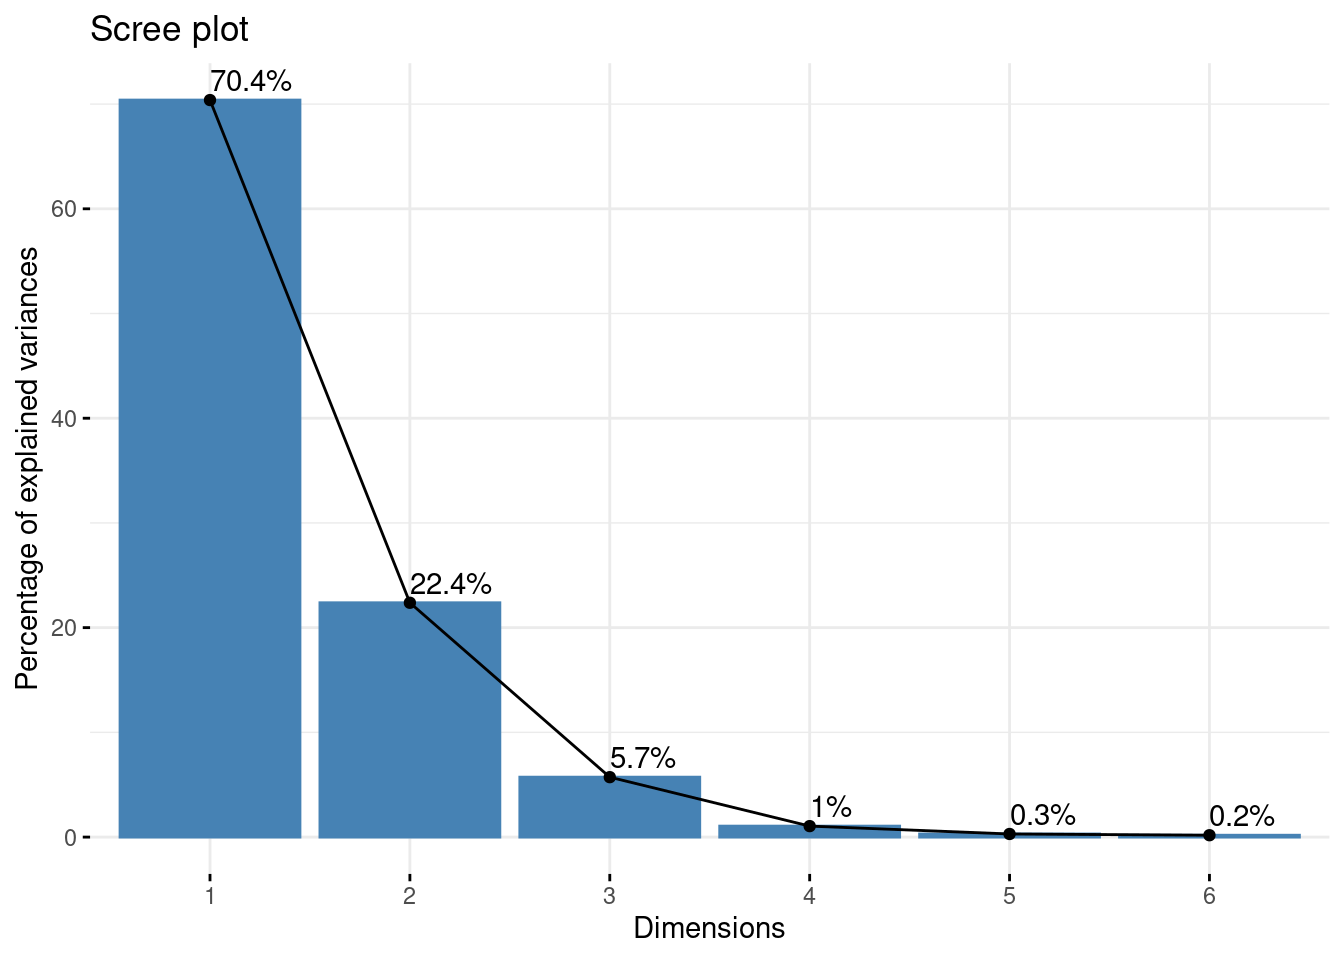
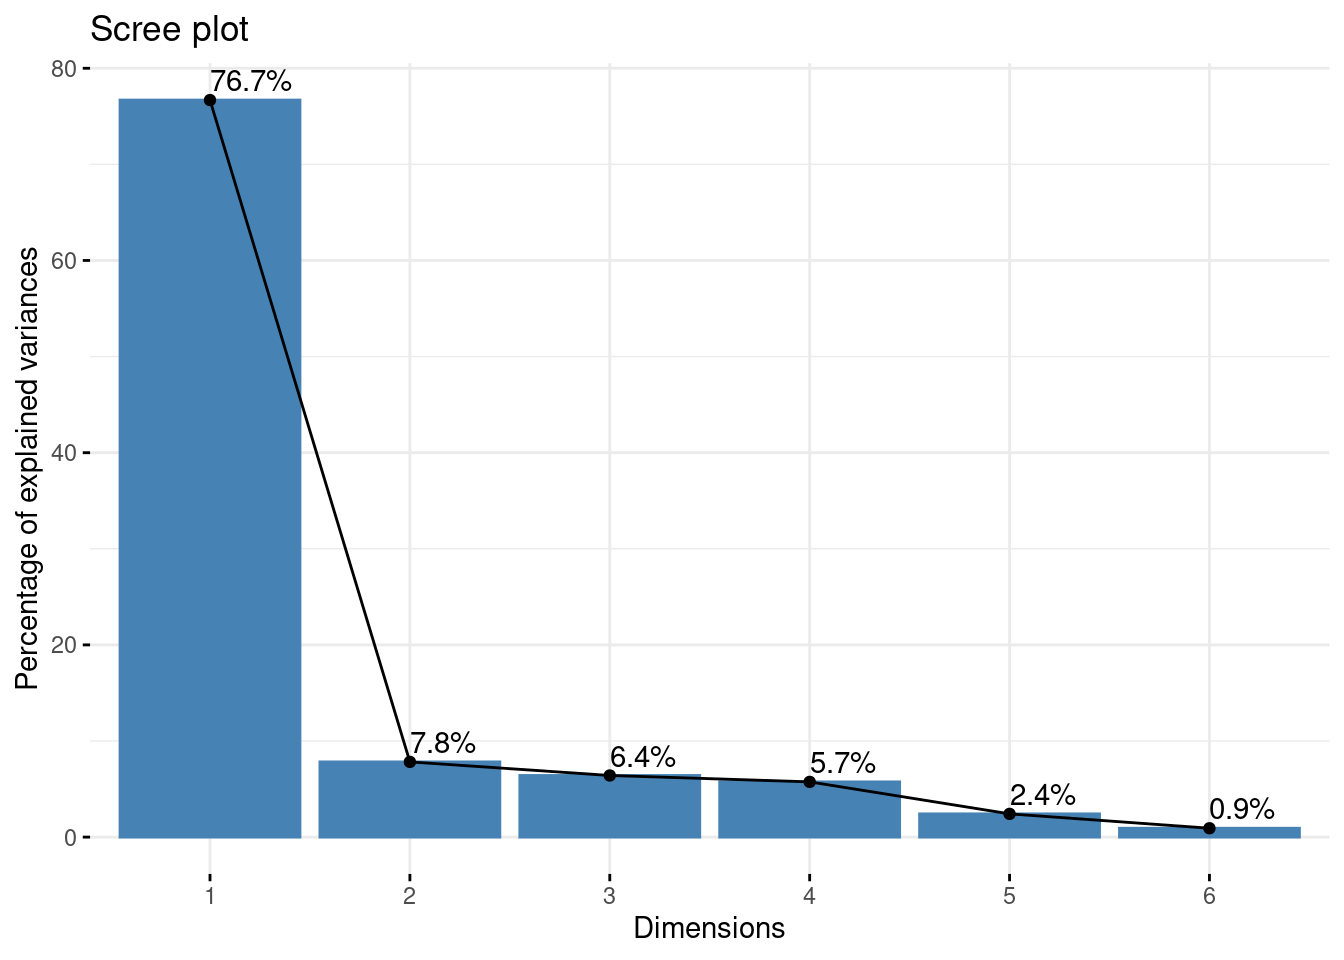
ajustes recurso600.Rmd

diff --git a/docs/recurso600.html b/docs/recurso600.html
@@ -672,8 +672,8 @@ la calidad de estos.</p>
 <p></br></p>
 <pre class="r"><code>library(ade4); library(factoextra)
 data(&quot;cafe&quot;)</code></pre>
-<div class="reactable html-widget html-fill-item-overflow-hidden html-fill-item" id="htmlwidget-9a6af9ca021dce438bf1" style="width:auto;height:auto;"></div>
-<script type="application/json" data-for="htmlwidget-9a6af9ca021dce438bf1">{"x":{"tag":{"name":"Reactable","attribs":{"data":{"Id":[1,2,3,4,5,6,7,8,9,10],"Iden":["ex_cl","cl40m","cl40cb","cl20m","cl20cb","ex_o","o40m","o40cb","o20m","o20cb"],"IAroma":[7.72,6.02,6.48,6.82,7.08,7.66,6.18,6.84,6.66,7],"Aroma":[7,5.42,5.98,6.44,6.2,7.42,5.82,6.56,7.06,6.7],"Cuerpo":[6.84,6.22,6.44,6.7,6.72,6.98,6.26,6.82,6.7,7.04],"Acidez":[5.02,4.34,4.58,4.62,4.78,5.12,4,4.3,4.64,4.6],"Amargo":[5.04,4.6,4.82,4.38,4.94,5.18,4.46,4.96,5,4.88],"Astring":[5.36,4.78,4.8,4.8,4.9,5.22,4.96,4.84,4.9,5.18]},"columns":[{"id":"Id","name":"Id","type":"numeric"},{"id":"Iden","name":"Iden","type":"character"},{"id":"IAroma","name":"IAroma","type":"numeric"},{"id":"Aroma","name":"Aroma","type":"numeric"},{"id":"Cuerpo","name":"Cuerpo","type":"numeric"},{"id":"Acidez","name":"Acidez","type":"numeric"},{"id":"Amargo","name":"Amargo","type":"numeric"},{"id":"Astring","name":"Astring","type":"numeric"}],"dataKey":"bf5cf520736dbf0eaef514e5f376b3fa"},"children":[]},"class":"reactR_markup"},"evals":[],"jsHooks":[]}</script>
+<div class="reactable html-widget html-fill-item-overflow-hidden html-fill-item" id="htmlwidget-494c04fd8fe8123c5d19" style="width:auto;height:auto;"></div>
+<script type="application/json" data-for="htmlwidget-494c04fd8fe8123c5d19">{"x":{"tag":{"name":"Reactable","attribs":{"data":{"Id":[1,2,3,4,5,6,7,8,9,10],"Iden":["ex_cl","cl40m","cl40cb","cl20m","cl20cb","ex_o","o40m","o40cb","o20m","o20cb"],"IAroma":[7.72,6.02,6.48,6.82,7.08,7.66,6.18,6.84,6.66,7],"Aroma":[7,5.42,5.98,6.44,6.2,7.42,5.82,6.56,7.06,6.7],"Cuerpo":[6.84,6.22,6.44,6.7,6.72,6.98,6.26,6.82,6.7,7.04],"Acidez":[5.02,4.34,4.58,4.62,4.78,5.12,4,4.3,4.64,4.6],"Amargo":[5.04,4.6,4.82,4.38,4.94,5.18,4.46,4.96,5,4.88],"Astring":[5.36,4.78,4.8,4.8,4.9,5.22,4.96,4.84,4.9,5.18]},"columns":[{"id":"Id","name":"Id","type":"numeric"},{"id":"Iden","name":"Iden","type":"character"},{"id":"IAroma","name":"IAroma","type":"numeric"},{"id":"Aroma","name":"Aroma","type":"numeric"},{"id":"Cuerpo","name":"Cuerpo","type":"numeric"},{"id":"Acidez","name":"Acidez","type":"numeric"},{"id":"Amargo","name":"Amargo","type":"numeric"},{"id":"Astring","name":"Astring","type":"numeric"}],"dataKey":"bf5cf520736dbf0eaef514e5f376b3fa"},"children":[]},"class":"reactR_markup"},"evals":[],"jsHooks":[]}</script>
 <p></br></p>
 <p>Calculando el ACP mediante la libreria <code>ade4</code> se
 tiene:</p>
@@ -689,43 +689,41 @@ estamos normalizando los datos originales.</p>
 <p>Los valores propios asociados a la matriz de correlaciones serán:</p>
 <p></br></p>
 <pre class="r"><code>ACP$eig</code></pre>
-<pre><code>[1] 4.22296911 1.34253540 0.34332281 0.06278951 0.01774934 0.01063383</code></pre>
+<pre><code>[1] 4.60147661 0.46937103 0.38451212 0.34461612 0.14487978 0.05514434</code></pre>
 <p></br></p>
 <p>Como vemos el primer valor propio será siempre el mayor ya que es el
 que mayor varianza logra explicar. <br></p>
 <p>Las componentes principales de los individuos son:</p>
 <p></br></p>
 <pre class="r"><code>ACP$li</code></pre>
-<pre><code>          Axis1       Axis2       Axis3        Axis4       Axis5         Axis6
-ExCl  3.2985249  0.59053730 -0.30417258  0.051239131  0.08307893  1.610162e-01
-C40M -2.0569257  2.14366713  0.36794391 -0.017723919  0.07658039  4.522901e-02
-C40C -1.8513736  0.90752688 -0.68290606  0.004278063 -0.01360567 -2.321584e-01
-C20M  0.5294378  1.64570229  0.15037997 -0.021380245  0.17658953 -2.613240e-02
-C20C  1.1488311  0.24739910 -1.24983058  0.112014829 -0.15335269  8.664286e-02
-ExOs  1.5745902 -1.78350945  0.03458431 -0.131412097  0.16467890 -9.270441e-02
-O40M -3.1230306 -0.80369310  0.74659695  0.182402080 -0.01196760  1.182975e-01
-O40C -2.6684052 -0.56653513 -0.16882998  0.059525086 -0.14189423  4.681633e-02
-O20M -0.5949198 -1.37326871 -0.14639348 -0.072958984  0.19964985  2.882415e-02
-O20C -0.5244905 -1.22493389 -0.24650122  0.017652399 -0.05328415 -3.117366e-02
-Com1  1.2830684  0.19671837  0.59476672 -0.666680362 -0.19447244  5.147559e-05
-Com2  2.9846931  0.02038922  0.90436204  0.483044019 -0.13200083 -1.047086e-01</code></pre>
+<pre><code>        Axis1       Axis2      Axis3       Axis4       Axis5       Axis6
+1  -2.9947077  1.01622318  0.6088641 -0.03785795  0.02866881  0.18511122
+2   3.2057321  0.03615753  0.7806676 -0.07003494 -0.09122485 -0.22696752
+3   1.3866259 -0.55662815  0.6612540 -0.18398706 -0.03470995 -0.06223661
+4   0.9814076  0.21905587 -1.0260987 -1.39279259  0.15092805  0.05010482
+5  -0.3457128 -0.50136938  0.4641112 -0.41096544 -0.57540901  0.13120929
+6  -3.5409698 -0.08826572  0.2660512 -0.09933568  0.28882042  0.01645509
+7   3.0213005  1.11233544 -0.1516589  0.64680223  0.28754799  0.20819208
+8   0.1375515 -0.84616260 -0.7108259  0.72170121 -0.32801652  0.36384152
+9  -0.4982973 -0.90730984 -0.1613885  0.35575388  0.75859223 -0.18371900
+10 -1.3529300  0.51596367 -0.7309759  0.47071634 -0.48519716 -0.48199090</code></pre>
 <p></br></p>
 <p>Y por último las componentes principales de las variables son:</p>
 <pre class="r"><code>ACP$co  </code></pre>
-<pre><code>              Comp1       Comp2       Comp3       Comp4        Comp5
-DA       -0.4239495  0.81522430  0.39404355 -0.01784939  0.009101505
-EA       -0.9825263  0.06905389 -0.12723505  0.06875531  0.072279373
-pH       -0.4957107 -0.77583057  0.38629570  0.05454417 -0.009568026
-AcidezT   0.9795929  0.15677029  0.05699178  0.06256249 -0.059082131
-Cafeina   0.9563901 -0.20380887  0.12671531 -0.14757932  0.072853723
-AcidosCl  0.9787056  0.07175130  0.05774534  0.17051342  0.059601018
-                Comp6
-DA       -0.002097963
-EA        0.061100244
-pH        0.008174496
-AcidezT   0.071888824
-Cafeina   0.025215445
-AcidosCl -0.032024168</code></pre>
+<pre><code>             Comp1       Comp2        Comp3       Comp4        Comp5
+IAroma  -0.9594169  0.10472444  0.006052845 -0.15371519 -0.097171463
+Aroma   -0.9144779 -0.09905878 -0.245477287  0.04789976  0.301769522
+Cuerpo  -0.8891227 -0.09880354 -0.389613549  0.00138818 -0.201486279
+Acidez  -0.8667067 -0.07067830  0.274819022 -0.39762926  0.035161005
+Amargo  -0.8151809 -0.36599671  0.289897844  0.33905502 -0.049737315
+Astring -0.7990534  0.54761303  0.113364062  0.21359800  0.008113424
+               Comp6
+IAroma   0.188267462
+Aroma    0.017298649
+Cuerpo  -0.085447344
+Acidez  -0.094621441
+Amargo   0.007324156
+Astring -0.055608952</code></pre>
 <p></br></p>
 <p>Podemos representar mediante un diagrama de barras a los valores
 propios del ACP.</p>
@@ -781,12 +779,12 @@ principales se tiene:</p>
 inercia.ACP = inertia.dudi(ACP,row.inertia=TRUE, col.inertia=TRUE)
 inercia.ACP$tot.inertia</code></pre>
 <pre><code>       inertia      cum    cum(%)
-Ax1 4.22296911 4.222969  70.38282
-Ax2 1.34253540 5.565505  92.75841
-Ax3 0.34332281 5.908827  98.48046
-Ax4 0.06278951 5.971617  99.52695
-Ax5 0.01774934 5.989366  99.82277
-Ax6 0.01063383 6.000000 100.00000</code></pre>
+Ax1 4.60147661 4.601477  76.69128
+Ax2 0.46937103 5.070848  84.51413
+Ax3 0.38451212 5.455360  90.92266
+Ax4 0.34461612 5.799976  96.66626
+Ax5 0.14487978 5.944856  99.08093
+Ax6 0.05514434 6.000000 100.00000</code></pre>
 <p></br></p>
 <p>Podemos observar que hasta la <strong>segunda componente</strong>
 (Ax2) se acumula un 84.51% de la inercia total.</p>
@@ -795,13 +793,13 @@ Ax6 0.01063383 6.000000 100.00000</code></pre>
 componente será:</p>
 <p></br></p>
 <pre class="r"><code>inercia.ACP$col.abs</code></pre>
-<pre><code>             Axis1      Axis2      Axis3      Axis4      Axis5       Axis6
-DA        4.256086 49.5026540 45.2257514  0.5074108  0.4667070  0.04139101
-EA       22.859697  0.3551817  4.7153168  7.5287948 29.4338194 35.10718993
-pH        5.818871 44.8340564 43.4647417  4.7381593  0.5157777  0.62839421
-AcidezT  22.723402  1.8306352  0.9460668  6.2336285 19.6666403 48.59962717
-Cafeina  21.659690  3.0940007  4.6768728 34.6867762 29.9034549  5.97920502
-AcidosCl 22.682254  0.3834721  0.9712505 46.3052304 20.0136006  9.64419265</code></pre>
+<pre><code>           Axis1     Axis2        Axis3        Axis4       Axis5       Axis6
+IAroma  20.00403  2.336575  0.009528159 6.856429e+00  6.51732976 64.27610524
+Aroma   18.17394  2.090594 15.671573296 6.657806e-01 62.85545355  0.54265446
+Cuerpo  17.18012  2.079834 39.478266260 5.591856e-04 28.02097007 13.24024917
+Acidez  16.32477  1.064280 19.641902322 4.587975e+01  0.85332558 16.23596585
+Amargo  14.44145 28.538956 21.856465870 3.335837e+01  1.70748498  0.09727789
+Astring 13.87568 63.889761  3.342264093 1.323911e+01  0.04543605  5.60774737</code></pre>
 <p></br></p>
 <p>Siendo la variable <strong>IAroma</strong> la que más contribuye a la
 varianza explicada por el primer eje (20%), mientras que
@@ -813,19 +811,17 @@ las componentes principales:</p>
 <p></br></p>
 <pre class="r"><code>library(&quot;factoextra&quot;)
 inercia.ACP$row.abs</code></pre>
-<pre><code>          Axis1        Axis2       Axis3        Axis4       Axis5        Axis6
-ExCl 21.4704122  2.164649965  2.24572317  0.348445767  3.24054796 2.031740e+01
-C40M  8.3490694 28.523821023  3.28608915  0.041691854  2.75341592 1.603109e+00
-C40C  6.7637722  5.112249032 11.31978125  0.002428992  0.08691135 4.223747e+01
-C20M  0.5531344 16.811077540  0.54890361  0.060667630 14.64085858 5.351646e-01
-C20C  2.6044331  0.379917450 37.91564038  1.665262611 11.04128045 5.882940e+00
-ExOs  4.8925573 19.744395174  0.02903183  2.291935457 12.73246600 6.734878e+00
-O40M 19.2465694  4.009345542 13.52971110  4.415615650  0.06724358 1.096680e+01
-O40C 14.0509084  1.992263108  0.69185526  0.470253192  9.45292308 1.717606e+00
-O20M  0.6984217 11.705879737  0.52018710  0.706462717 18.71434447 6.510915e-01
-O20C  0.5428454  9.313615558  1.47487165  0.041356062  1.33300786 7.615607e-01
-Com1  3.2486317  0.240205431  8.58636647 58.988454091 17.75631104 2.076499e-06
-Com2 17.5792449  0.002580442 19.85183902 30.967425976  8.18068971 8.591984e+00</code></pre>
+<pre><code>         Axis1       Axis2      Axis3       Axis4       Axis5       Axis6
+1  19.48999241 22.00198737  9.6411901  0.04158901  0.05672983  6.21390373
+2  22.33352233  0.02785359 15.8497441  0.14232919  0.57440544  9.34171101
+3   4.17850953  6.60106561 11.3717309  0.98228826  0.08315726  0.70241029
+4   2.09315612  1.02233565 27.3821959 56.29078571  1.57228815  0.45525842
+5   0.25973694  5.35549142  5.6018837  4.90089069 22.85312172  3.12196638
+6  27.24879089  0.16598463  1.8408579  0.28633532  5.75768628  0.04910204
+7  19.83766803 26.36059855  0.5981716 12.13968540  5.70706576  7.86008865
+8   0.04111817 15.25426797 13.1406396 15.11399500  7.42649088 24.00620580
+9   0.53960973 17.53860139  0.6773843  3.67251609 39.71997726  6.12078543
+10  3.97789584  5.67181382 13.8962018  6.42958532 16.24907743 42.12856826</code></pre>
 <p></br></p>
 <p>Se observa que el café <strong>ex_o</strong> (27.2%) es el que más
 varianza explicada aporta a la primera componente, por otra parte el
